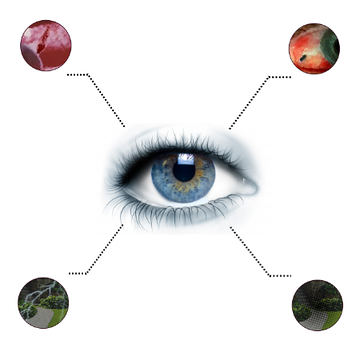
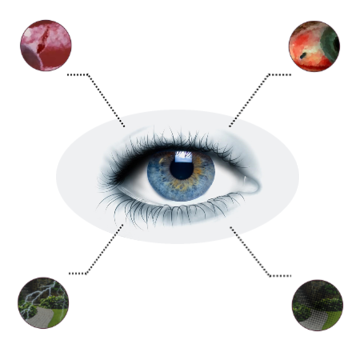
Change urgency page

diff --git a/src/main/webapp/app/urgency/urgency.html b/src/main/webapp/app/urgency/urgency.html
@@ -3,14 +3,10 @@
     <div>
         <div id="overlay" class="hide"></div>
         <toaster-container toaster-options="{
-          'closeButton': false,
           'body-output-type': 'trustedHtml',
           'position-class': 'toast-top-full-width'
-        }" ng-click="goHome()">
+        }" >
         </toaster-container>
-
-
-
 
         <div class="row">
             <div class="col-xs-4 text-right">Présence de corps étrangé</div>
@@ -18,58 +14,15 @@
             <div class="col-xs-4 text-left">Douleur intense, photophobie intense, baisse de la vision</div>
         </div>
         <div class="row">
-            <div class="col-xs-4"></div>
-            <div class="col-xs-4">
-                <img src="content/images/urgence_plaie.png" class="center-block" />
-            </div>
-            <div class="col-xs-4"></div>
-        </div>
-        <div class="row">
-            <div class="col-xs-4 text-right">Impression d'éclairs lumineux, voile noire</div>
-            <div class="col-xs-4"></div>
-            <div class="col-xs-4 text-left">Traumatisme (plaie, contusion par impact, brûmure par acide ou base)</div>
-        </div>
-
-
-        <!--<div class="row">
-            <div class="col-xs-4">Présence de corps étrangé</div>
-            <div class="col-xs-4"></div>
-            <div class="col-xs-4">Douleur intense, photophobie intense, baisse de la vision</div>
-        </div>
-        <div class="row">
-            <div class="col-xs-4">
-                <img src="content/images/urgence_corps.png" class="corps-img hidden-xs" width="60"/>
-                <hr class="dash-left-top hidden-xs">
-                <hr class="dash-left-bottom hidden-xs">
-                <img src="content/images/urgence_plaie.png" class="voile-img hidden-xs" width="60"/>
-            </div>
-            <div class="col-xs-4">
-                <img src="content/images/oeil_lois.png" class="roundedImage" width="150"/>
-            </div>
-            <div class="col-xs-4">
-                <img src="content/images/urgence_plaie.png" class="douleur-img hidden-xs" width="60"/>
-                <hr class="dash-right-top hidden-xs">
-                <hr class="dash-right-bottom hidden-xs">
-                <img src="content/images/urgence_plaie.png" class="plaie-img hidden-xs" width="60"/>
+            <div class="col-xs-12">
+                <img src="content/images/fond_eye.png" class="center-block" />
             </div>
         </div>
         <div class="row">
-            <div class="col-xs-4">Impression d'éclairs lumineux, voile noire</div>
+            <div class="col-xs-4 text-right ">Impression d'éclairs lumineux, voile noire</div>
             <div class="col-xs-4"></div>
-            <div class="col-xs-4">Traumatisme (plaie, contusion par impact, brûmure par acide ou base)</div>
-        </div>!-->
-<!--
-        <span class="glyphicon glyphicon-exclamation-sign" aria-hidden="true"></span>
-        <span class="sr-only">Détecter les cas d'urgences :</span>
-        Détecter les cas d'urgences :
-        <hr>
-        <ul class="list-group">
-            <li class="list-group-item">Douleur intense, photophobie intense, baisse de la vision</li>
-            <li class="list-group-item">Impression d'éclairs lumineux, voile noire</li>
-            <li class="list-group-item">Présence de corps étranger</li>
-            <li class="list-group-item">Traumatisme (plaie, contusion par impact, brûmure par acide ou base)</li>
-        </ul>
-    </div>-->
+            <div class="col-xs-4 text-left" >Traumatisme (plaie, contusion par impact, brûmure par acide ou base)</div>
+        </div>
 
         <br>
 

diff --git a/src/main/webapp/index.html b/src/main/webapp/index.html
@@ -81,6 +81,7 @@
     <script src="bower_components/bootstrap-ui-datetime-picker/dist/datetime-picker.js"></script>
     <script src="bower_components/ng-file-upload/ng-file-upload.js"></script>
     <script src="bower_components/ngInfiniteScroll/build/ng-infinite-scroll.js"></script>
+    <script src="bower_components/angular-animate/angular-animate.js"></script>
     <script src="bower_components/AngularJS-Toaster/toaster.js"></script>
     <!-- endinject -->
     <!-- endbuild -->
@@ -92,8 +93,6 @@
     <script src="app/watson/watson.controller.js"></script>
     <script src="app/urgency/urgency.state.js"></script>
     <script src="app/urgency/urgency.controller.js"></script>
-    <script src="app/report/report.state.js"></script>
-    <script src="app/report/report.controller.js"></script>
     <script src="app/services/user/user.service.js"></script>
     <script src="app/services/profiles/profile.service.js"></script>
     <script src="app/services/profiles/page-ribbon.directive.js"></script>
@@ -108,6 +107,8 @@
     <script src="app/services/auth/auth.jwt.service.js"></script>
     <script src="app/services/auth/activate.service.js"></script>
     <script src="app/services/auth/account.service.js"></script>
+    <script src="app/report/report.state.js"></script>
+    <script src="app/report/report.controller.js"></script>
     <script src="app/layouts/navbar/navbar.controller.js"></script>
     <script src="app/layouts/navbar/active-menu.directive.js"></script>
     <script src="app/layouts/error/error.state.js"></script>
@@ -192,7 +193,6 @@
     <script src="app/account/activate/activate.state.js"></script>
     <script src="app/account/activate/activate.controller.js"></script>
     <script src="app/account/account.state.js"></script>
-
     <!-- endinject -->
     <!-- endbuild -->
 </body>

diff --git a/src/main/webapp/app/urgency/urgency.controller.js b/src/main/webapp/app/urgency/urgency.controller.js
@@ -5,22 +5,25 @@
         .module('theaApp')
         .controller('UrgencyController', UrgencyController);
 
-    UrgencyController.$inject = ['$scope', '$state', '$location', 'toaster'];
+    UrgencyController.$inject = ['$scope', '$state', '$location', 'toaster', '$timeout'];
 
-    function UrgencyController ($scope, $state, $location, toaster) {
+    function UrgencyController ($scope, $state, $location, toaster, $timeout) {
         var vm = this;
 
         $scope.goPop = function(){
-	        toaster.pop('warning', "1er geste à accomplir en cas de traumatisme", "<br> • Ne pas frotter l'oeil <br> • Placer une compresse sur la paupierre superposé");
+	        toaster.pop('warning', "1er geste à accomplir en cas de traumatisme", "<br> • Ne pas frotter l'oeil <br> • Placer une compresse sur la paupierre superposé \
+	        <br>... \
+	        <br><br><br> Redirection sur la page d'acceuil dans 10 secondes ");
 	        document.getElementById('overlay').classList.remove("hide");
+
+	        $timeout(function() {
+               $location.url('/');
+              }, 10000);
+
 	    };
 
         $scope.goWatson = function() {
             $location.url('/watson');
-        };
-
-        $scope.goHome = function() {
-            $location.url('/');
         };
     }
 })();

diff --git a/src/main/webapp/content/css/main.css b/src/main/webapp/content/css/main.css
@@ -427,3 +427,15 @@ hr.dash-right-bottom {
     background-position: center;
     background-repeat: no-repeat;
 }
+
+.center-eye {
+    margin-top: -40px;
+}
+
+.navbar-default {
+    background-color: #0058a6 !important;
+}
+
+.well {
+    background-color: #EFF0F2 !important;
+}
